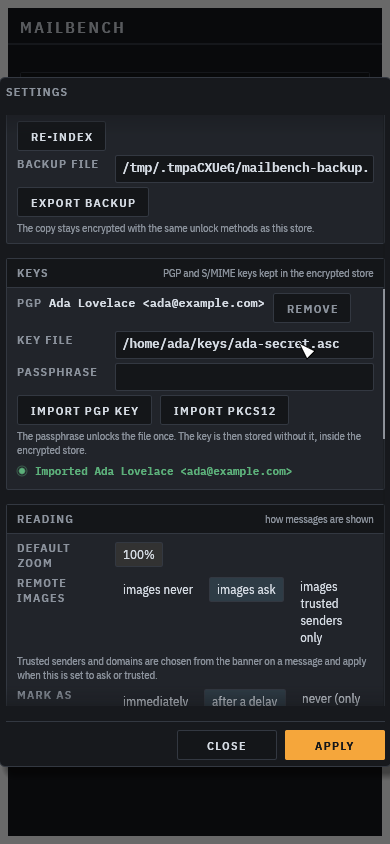
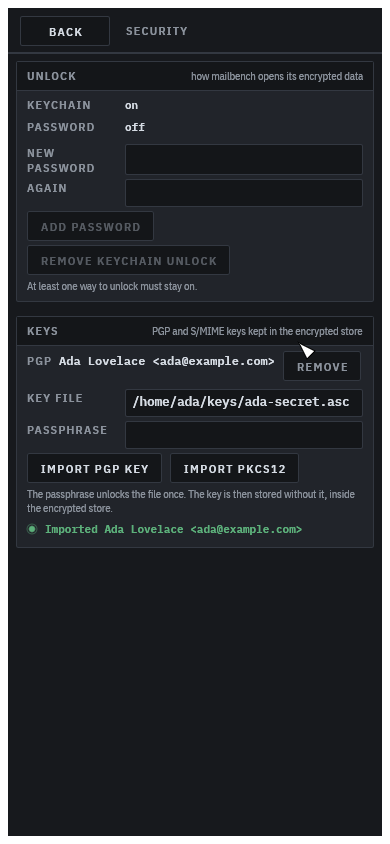
Settings page fixes and test updates

Changed region(s): [[0.0, 0.0, 1.0, 1.0], [0.5231, 0.6777, 0.7385, 0.7393], [0.3077, 0.1232, 0.3692, 0.154]]

diff --git a/tests/shell.rs b/tests/shell.rs
@@ -596,6 +596,8 @@ fn removing_an_account_in_settings_deletes_its_synced_data() {
         s.app().is_some_and(|a| a.store.accounts().iter().all(|x| x.sync == ms::SyncState::Idle))
     });
     h.state_mut().1.open_settings();
+    h.state_mut().1.settings_form().unwrap().page.open_section(mailbench::settings_page::Section::Accounts);
+    h.state_mut().1.settings_form().unwrap().page.tab = mailbench::settings_page::Tab::Danger;
     h.run();
     h.run();
     h.run();
@@ -606,7 +608,7 @@ fn removing_an_account_in_settings_deletes_its_synced_data() {
     h.run();
     h.run();
     h.get_by_label_contains("deletes the mail synced from this account");
-    h.get_by_label("remove").click();
+    h.get_all_by_label("remove").last().unwrap().click();
     h.run();
     h.run();
     assert_eq!(h.state().1.screen_name(), "add account");
@@ -651,6 +653,9 @@ fn keys_panel_fits_at_phone_width() {
     h.run();
     h.run();
     h.state_mut().1.open_settings();
+    h.state_mut().1.settings_form().unwrap().page.open_section(mailbench::settings_page::Section::Security);
+    h.run();
+    h.run();
     h.run();
     {
         let form = h.state_mut().1.settings_form().unwrap();
@@ -855,6 +860,9 @@ fn two_nostr_accounts_added_in_the_form_get_distinct_names_and_a_profile_fills_d
             assert_eq!(f.drafts[0].name, "carol");
             assert_eq!(f.drafts[0].display_name, "Carol B");
         }
+        h.state_mut().1.settings_form().unwrap().page.open_section(mailbench::settings_page::Section::Accounts);
+        h.run();
+        h.run();
         h.get_by_label("add account").hover();
         h.run();
         h.get_by_label("add account").click();

diff --git a/src/shell.rs b/src/shell.rs
@@ -1276,6 +1276,13 @@ impl Shell {
     pub fn show(&mut self, ui: &mut Ui) {
         let ctx = ui.ctx().clone();
         self.ctx = Some(ctx.clone());
+        if self.settings.is_some() && matches!(self.screen, Screen::Main(_) | Screen::Add(..)) {
+            if let Screen::Main(main) = &mut self.screen {
+                main.app.apply_theme(&ctx);
+            }
+            self.settings_ui(ui);
+            return;
+        }
         match &mut self.screen {
             Screen::First(form) => {
                 if form.show(ui) {
@@ -1303,14 +1310,9 @@ impl Shell {
                 }
             },
             Screen::Main(main) => {
-                if self.settings.is_some() {
-                    main.app.apply_theme(&ctx);
-                    self.settings_ui(ui);
-                } else {
-                    main.app.show(ui);
-                    if std::mem::take(&mut main.app.settings_requested) {
-                        self.open_settings();
-                    }
+                main.app.show(ui);
+                if std::mem::take(&mut main.app.settings_requested) {
+                    self.open_settings();
                 }
             }
         }

diff --git a/src/settings_page.rs b/src/settings_page.rs
@@ -97,7 +97,7 @@ impl PageState {
 
     pub fn open_section(&mut self, section: Section) {
         self.section = section;
-        self.level = if self.narrow { Level::Page } else { Level::Sections };
+        self.level = Level::Page;
     }
 
     pub fn select_account(&mut self, index: usize) {
@@ -148,8 +148,9 @@ impl PageState {
 
     fn step(&mut self, delta: i32) {
         let bump = |i: usize, len: usize| (i as i32 + delta).clamp(0, len.max(1) as i32 - 1) as usize;
+        let walking_sections = self.level == Level::Sections || (!self.narrow && self.level == Level::Page && self.section != Section::Accounts);
         match self.level {
-            Level::Sections => {
+            _ if walking_sections => {
                 let at = Section::ALL.iter().position(|s| *s == self.section).unwrap_or(0);
                 self.section = Section::ALL[bump(at, Section::ALL.len())];
             }
